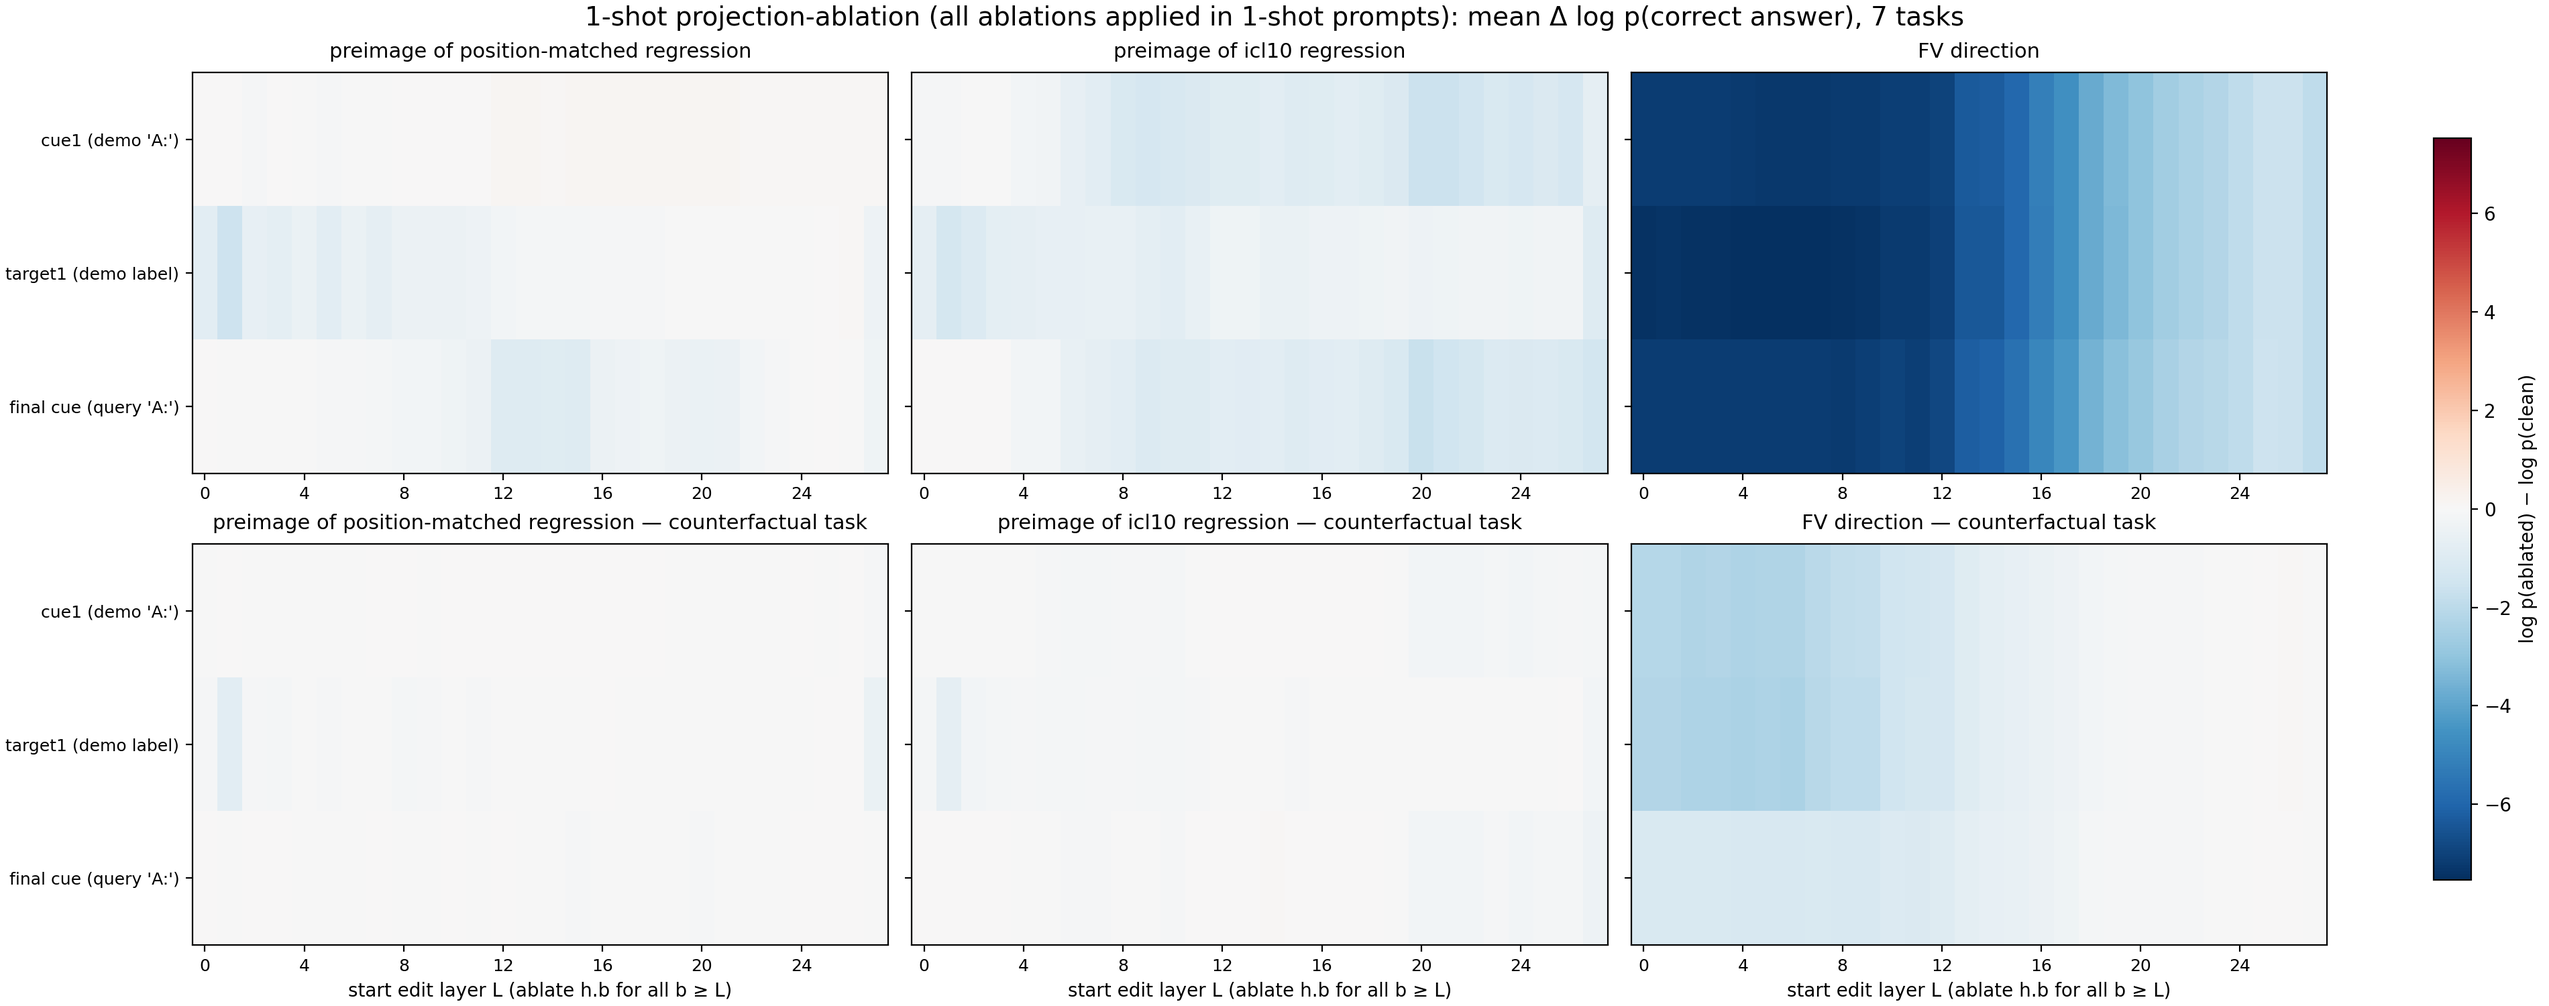
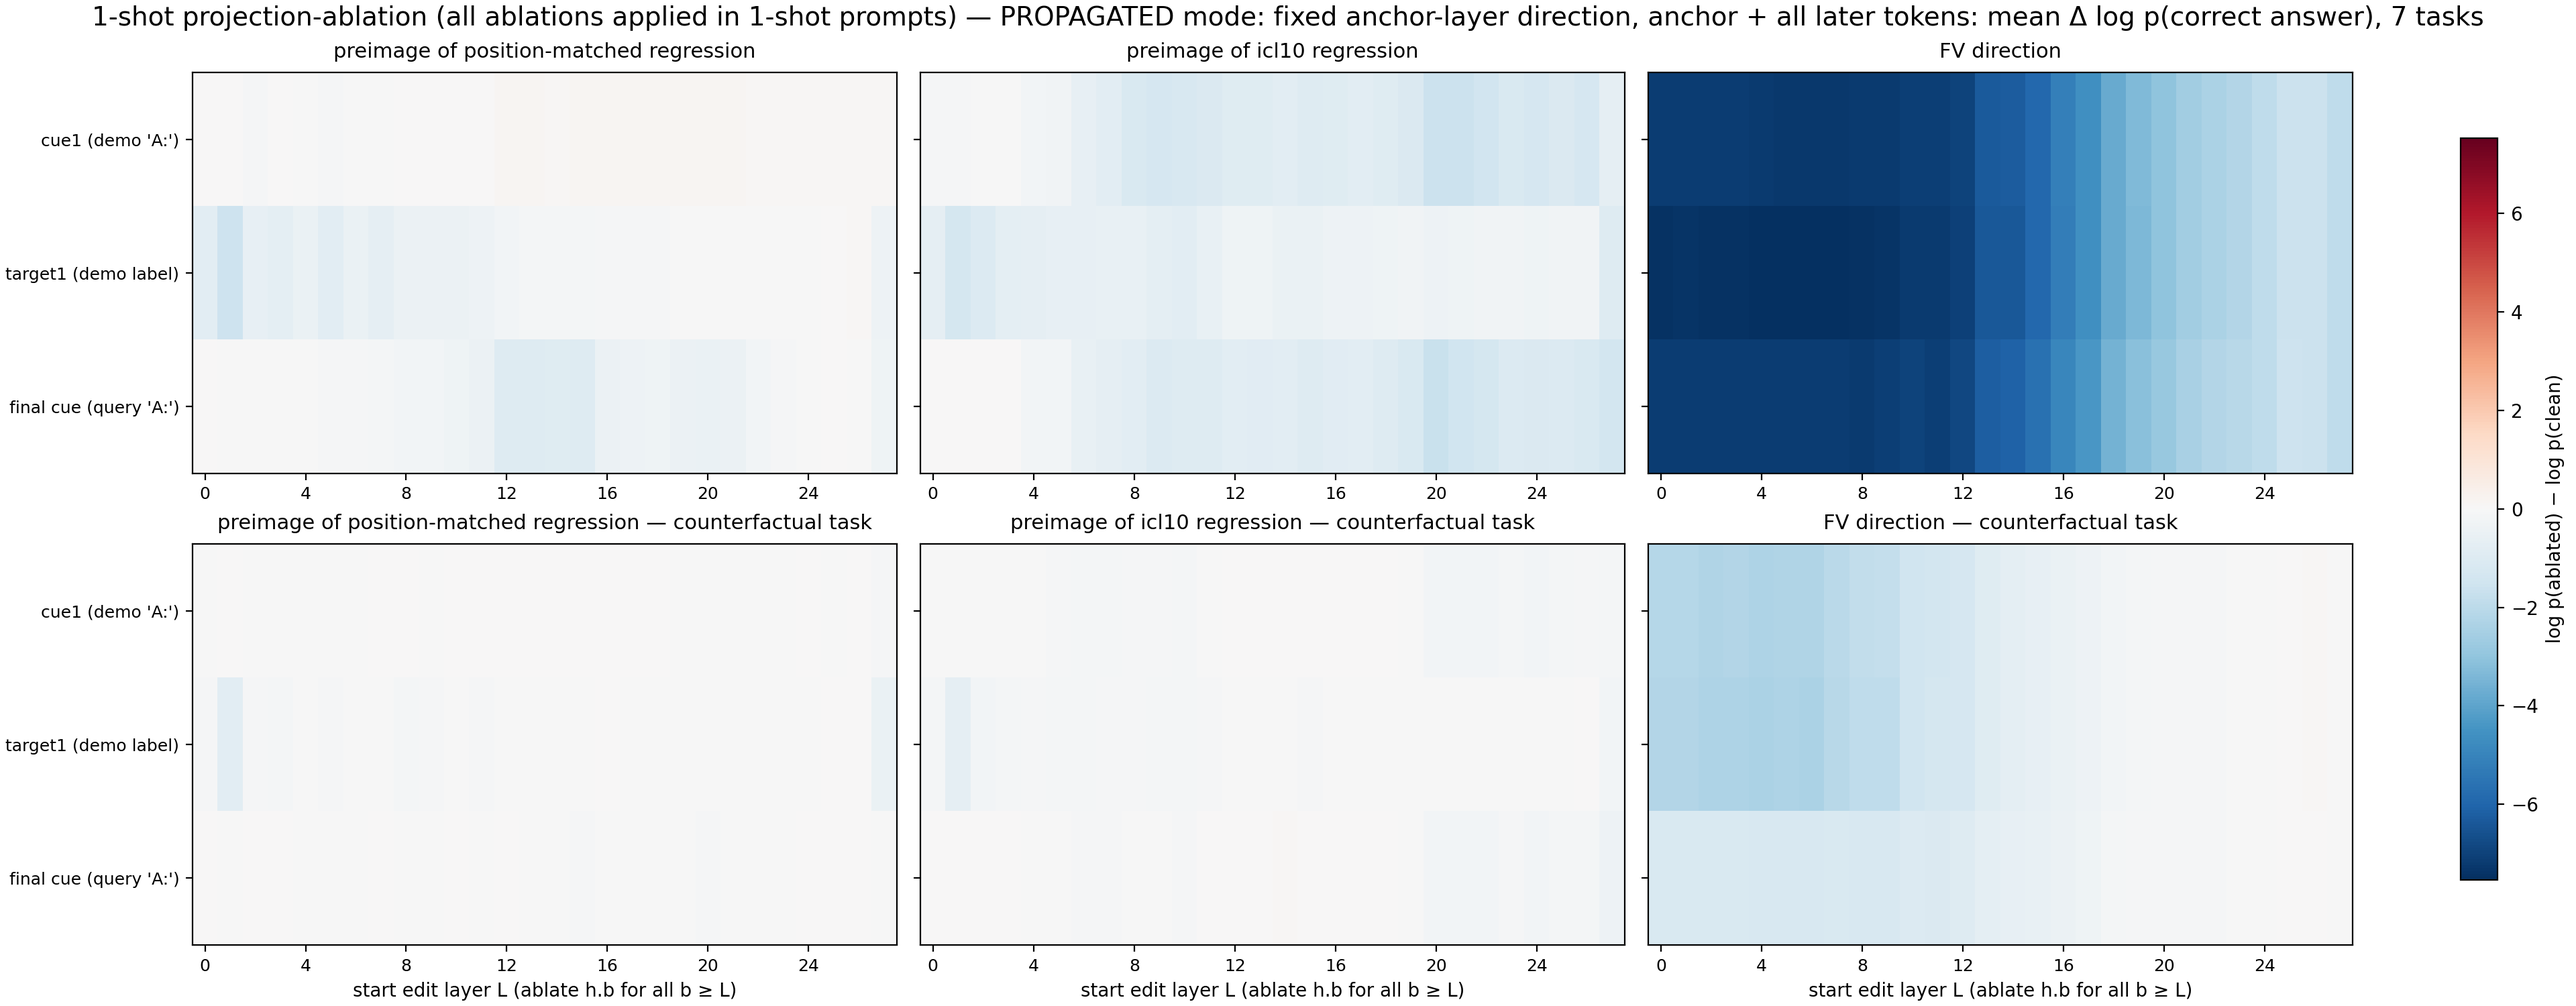
Stream X3: --arms/--suffix filters for ablation plots; propagated no-FV grids; propagated-mode suptitle

diff --git a/src/eval_scripts/plot_oneshot_preimage_ablation.py b/src/eval_scripts/plot_oneshot_preimage_ablation.py
@@ -54,6 +54,11 @@ def parse_args():
                    help="Write the value into each cell of the per-arm heatmaps.")
     p.add_argument("--skip_per_arm", action="store_true",
                    help="Only render heatmap_all_arms and per_task_grid (skip the per-arm figures).")
+    p.add_argument("--arms", nargs="+", default=None, choices=ARMS,
+                   help="Only plot these arms; the shared color scale is computed from the kept "
+                        "arms only (e.g. drop fv/fv_cf so preimage structure isn't washed out).")
+    p.add_argument("--suffix", type=str, default=None,
+                   help="Filename suffix override (default: _<rows> when --rows is used, else '').")
     return p.parse_args()
 
 
@@ -95,18 +100,21 @@ def main():
     args = parse_args()
     fig_dir = args.root / "figures"
     fig_dir.mkdir(parents=True, exist_ok=True)
+    arms = list(args.arms) if args.arms else list(ARMS)
     suffix = ""
     if args.rows:
         suffix += "_" + "_".join(args.rows)
+    if args.suffix is not None:
+        suffix = args.suffix
 
     task_dirs = sorted(d for d in args.root.iterdir()
                        if d.is_dir() and d.name != "figures")
     tasks = [d.name for d in task_dirs]
 
     # per (arm) -> task -> (row_names, [rows, 28])
-    per_arm = {arm: {} for arm in ARMS}
+    per_arm = {arm: {} for arm in arms}
     for d in task_dirs:
-        for arm in ARMS:
+        for arm in arms:
             got = load_arm(d, arm)
             if got is None:
                 continue
@@ -120,7 +128,7 @@ def main():
 
     # task-mean grids per arm
     arm_grids = {}
-    for arm in ARMS:
+    for arm in arms:
         if not per_arm[arm]:
             continue
         row_names = next(iter(per_arm[arm].values()))[0]
@@ -147,9 +155,11 @@ def main():
         print(f"wrote {out}")
 
     # --- combined 2x3 figure (labels only on the left column / bottom row) ---
-    fig, axes = plt.subplots(2, 3, figsize=(19, 7.5), constrained_layout=True)
-    for k, arm in enumerate(ARMS):
-        r, c = divmod(k, 3)
+    ncols = (len(arms) + 1) // 2
+    fig, axes = plt.subplots(2, ncols, figsize=(6.4 * ncols, 7.5), squeeze=False,
+                             constrained_layout=True)
+    for k, arm in enumerate(arms):
+        r, c = divmod(k, ncols)
         ax = axes[r][c]
         if arm not in arm_grids:
             ax.axis("off")
@@ -157,8 +167,10 @@ def main():
         row_names, grid = arm_grids[arm]
         im = render(ax, grid, row_names, vmax, ARM_TITLES[arm],
                     show_xlabel=(r == 1), show_ylabels=(c == 0))
-    fig.suptitle("1-shot projection-ablation (all ablations applied in 1-shot prompts): "
-                 f"mean Δ log p(correct answer), {len(tasks)} tasks", fontsize=14)
+    mode_note = (" — PROPAGATED mode: fixed anchor-layer direction, anchor + all later tokens"
+                 if "propagated" in args.root.name or "propagated" in str(args.root.parent) else "")
+    fig.suptitle("1-shot projection-ablation (all ablations applied in 1-shot prompts)"
+                 f"{mode_note}: mean Δ log p(correct answer), {len(tasks)} tasks", fontsize=14)
     fig.colorbar(im, ax=axes, label="log p(ablated) − log p(clean)", shrink=0.85)
     out = fig_dir / f"heatmap_all_arms{suffix}.png"
     fig.savefig(out, dpi=200)
@@ -166,11 +178,11 @@ def main():
     print(f"wrote {out}")
 
     # --- per-task supplementary grid ---
-    fig, axes = plt.subplots(len(tasks), len(ARMS),
-                             figsize=(3.6 * len(ARMS), 1.7 * len(tasks) + 1.0),
+    fig, axes = plt.subplots(len(tasks), len(arms),
+                             figsize=(3.6 * len(arms), 1.7 * len(tasks) + 1.0),
                              squeeze=False, constrained_layout=True)
     for ti, task in enumerate(tasks):
-        for ai, arm in enumerate(ARMS):
+        for ai, arm in enumerate(arms):
             ax = axes[ti][ai]
             if task not in per_arm[arm]:
                 ax.axis("off")
